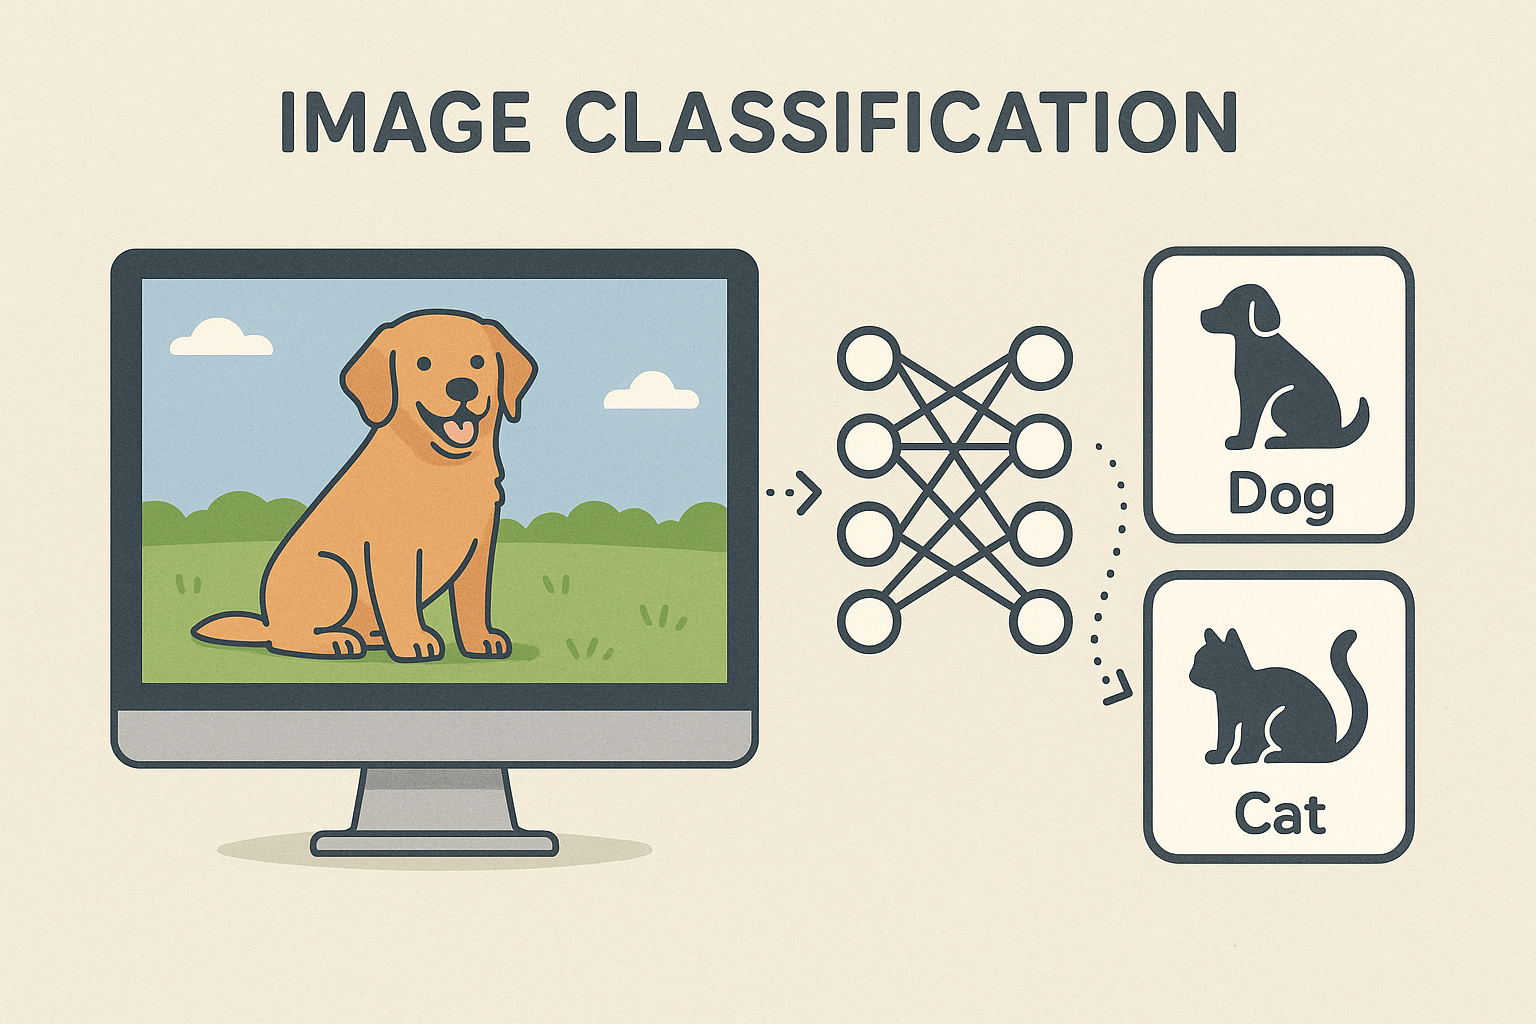
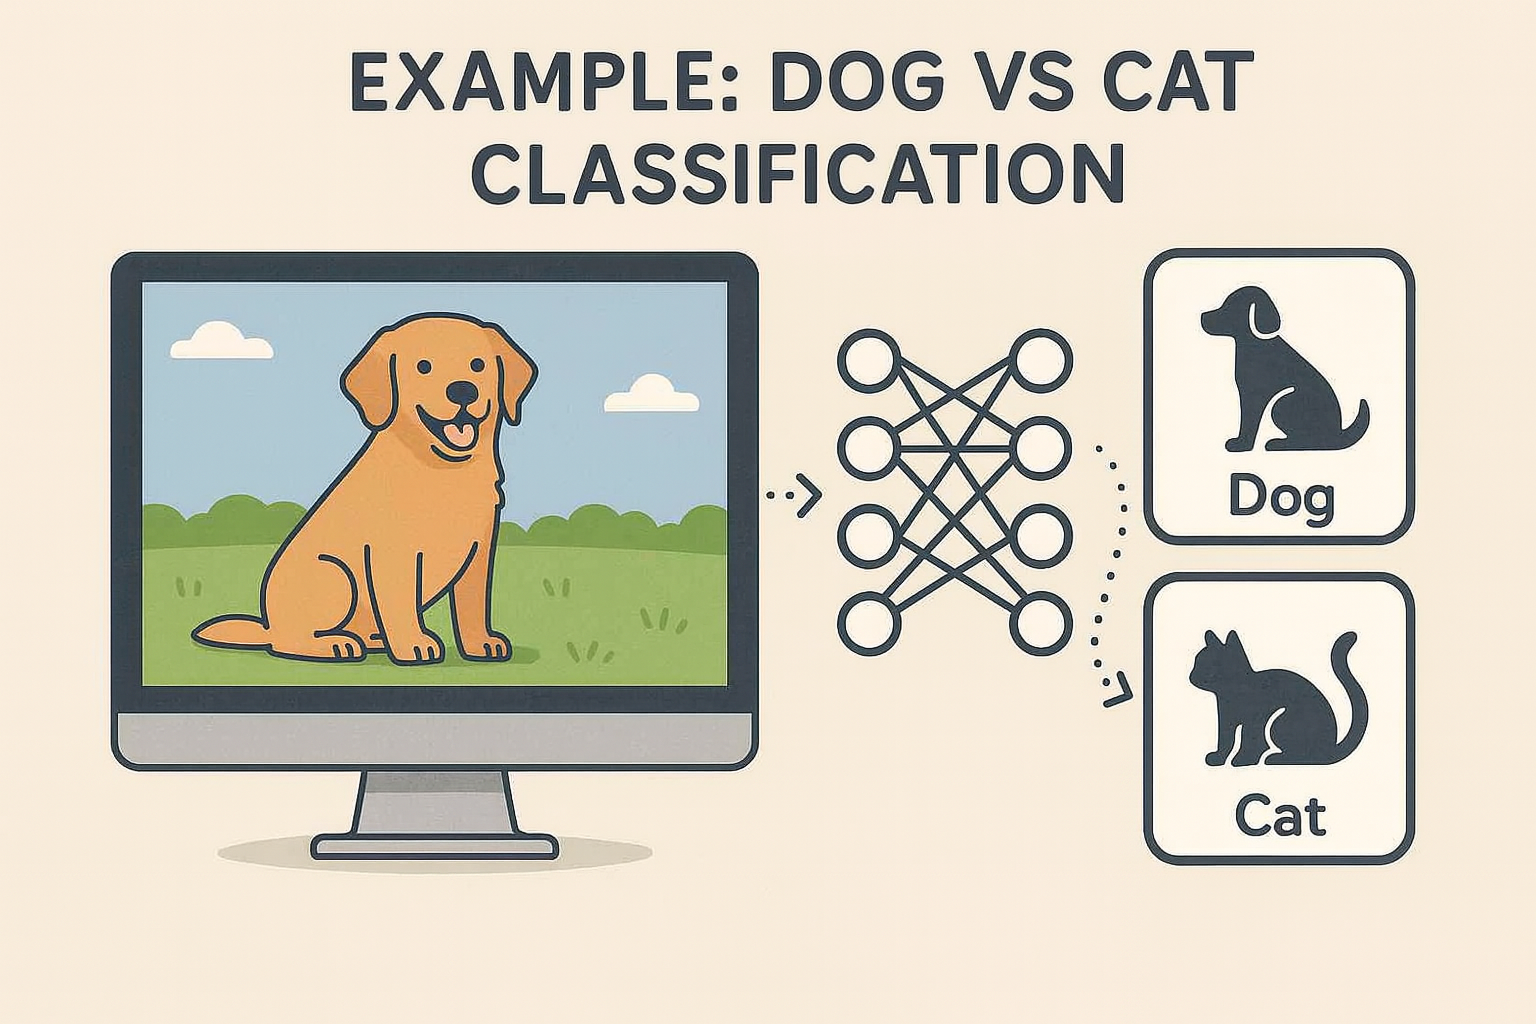
update

diff --git a/src/components/projects/ManualCreationModal.jsx b/src/components/projects/ManualCreationModal.jsx
@@ -5,8 +5,8 @@ import MarkdownRenderer from 'src/components/MarkdownRenderer.jsx'
 
 // import { TASK_TYPES } from 'src/constants/types'
 import image_classification from 'src/assets/images/image_classification.png'
-import text_classification from 'src/assets/images/text_classification.jpg'
-import multilabel_text_classification from 'src/assets/images/multilabel_text_classification.jpg'
+import text_classification from 'src/assets/images/text_classification.png'
+import multilabel_text_classification from 'src/assets/images/multilabel_text_classification.png'
 import tabular_classification from 'src/assets/images/tabular_classification.png'
 import tabular_regression from 'src/assets/images/tabular_regression.png'
 import multilabel_tabular_classification from 'src/assets/images/multilabel_tabular_classification.png'
@@ -62,12 +62,23 @@ const taskCards = [
 		description:
 			'Perfect for organizing photo collections, content moderation, and product categorization. Upload images and let AI automatically sort them by content.',
 		icon: '📸',
-		example: {
-			input: 'Photos of different fruits: apples, oranges, bananas',
-			output: 'Automatically sorted into fruit categories with confidence scores',
-		},
 		example_explain:
 			'Classifies an input image into one of several categories.',
+		explain: `📌 **This example shows how Image Classification works**.
+
+In this example:
+
+The input is a photo of a pet.
+The system must decide which **category** this photo belongs to.
+
+🎯 Possible categories:
+
+**Dog** → the image shows a dog
+
+**Cat** → the image shows a cat
+
+💡 In short:
+Image classification puts each picture into **one clear group** — in this case, either **Dog** or **Cat**.`,
 
 		image: image_classification,
 		difficulty: 'Beginner',
@@ -81,11 +92,23 @@ const taskCards = [
 		description:
 			'Analyze customer reviews, emails, or documents to understand sentiment and automatically categorize content for better organization.',
 		icon: '📝',
-		example: {
-			input: 'Customer review: "Amazing product, fast delivery!"',
-			output: 'Category: Positive Feedback, Sentiment: 95% positive',
-		},
 		example_explain: 'Predicts sentiment or topic for the given text.',
+		explain: `📌 **This example shows how Text Classification works.**
+
+In this example:
+
+The input is a short review: “Great product, I am very satisfied.”
+
+The system must decide which **category** this review belongs to.
+
+🎯 Possible categories:
+
+**Positive** → the customer is happy
+
+**Negative** → the customer is unhappy
+
+💡 In short:
+Text classification puts each text into **one clear group** — in this case, either **Positive** or **Negative**.`,
 
 		image: text_classification,
 		difficulty: 'Beginner',
@@ -99,10 +122,24 @@ const taskCards = [
 		description:
 			'When text needs multiple tags - like marking an email as both "urgent" and "customer-support" for better organization and routing.',
 		icon: '🏷',
-		example: {
-			input: 'Email: "Urgent: Account access issue for premium user"',
-			output: 'Labels: Urgent, Technical Support, Premium Customer',
-		},
+		explain: `📌 **This example shows how Multilabel Text Classification works.**
+
+In this example:
+
+Each text description represents a short summary of a movie.
+
+The arrows point to the genres that match that movie.
+
+🎬 For example:
+
+Description #1: “A superhero fights to save the world from a deadly threat.” → has 2 genres: **Action, Sci-Fi**
+
+Description #2: “A heartwarming tale of friendship and romance.” → has 3 genres: **Romance, Comedy, Drama**
+
+✅ This is different from single-label classification, where each movie could only belong to one genre (e.g., just “Action” or just “Comedy”). Here, we allow **multiple genres** for a movie description.
+
+💡 In short:
+This example shows that one movie description can belong to **several categories** at once — and that’s exactly what multilabel classification does.`,
 
 		image: multilabel_text_classification,
 		difficulty: 'Intermediate',
@@ -117,6 +154,22 @@ const taskCards = [
 			'Perfect for business analytics! Upload spreadsheet data and automatically categorize customers, transactions, or any structured data.',
 		icon: '📊',
 		example_explain: 'Predicts a class for each row in a structured table.',
+		explain: `📌 **This example shows how Tabular Classification can classify each customer based on their information**.
+
+In this example:
+
+The input is a table of customer information, such as **Age, Salary, and Balance**.
+
+The system uses these values to decide the outcome: whether the customer will **Churn** (leave) or **No Churn** (stay).
+
+🎯 For example:
+
+A customer with Age 25, Salary 50K, Balance 20K → **Churn**
+
+A customer with Age 45, Salary 80K, Balance 40K → **No Churn**
+
+💡 In short:
+Tabular classification helps businesses predict outcomes from structured data and it predicts a **single category for each row** — in this case, whether a customer will **churn** or **no churn**.`,
 		image: tabular_classification,
 		difficulty: 'Beginner',
 		timeToTrain: '5-20 minutes',
@@ -128,7 +181,7 @@ const taskCards = [
 		description:
 			'Forecast future values like house prices, sales numbers, or performance scores using your historical data patterns.',
 		icon: '📈',
-		example_explain: `📌 **This example shows how a system can predict house prices based on simple features.**
+		example_explain: `📌 **This example shows how Tabular Regression can predict house prices based on simple features.**
 
 In this table:
 - Each row represents one house.
@@ -143,7 +196,7 @@ In this table:
 
 💡 In short:  
 This is like a smart calculator that looks at the house’s details and gives you an estimated price — not just guessing randomly, but using real patterns from past data.`,
-		explain: `📌 **This example shows how a system can predict house prices based on simple features.**\n\nIn this table:\n- Each row represents one house.\n- The first 3 columns (Square Footage, Bedrooms, Location) are the **input information** — things we already know about the house.\n- The last column (“Predicted Price”) is the **output** — what the system calculates or guesses based on those inputs.\n\n🏡 For example:\n- House #1: 80 sq ft, 2 bedrooms — Predicted price: **$1.2M**\n- House #2: 120 sq ft, 3 bedrooms — Predicted price: **$1.8M**\n- House #3: 100 sq ft, 3 bedrooms  — Predicted price: **$3.0M**\n- House #4: 150 sq ft, 4 bedrooms  — Predicted price: **$4.5M**\n\n💡 In short:\nThis is like a smart calculator that looks at the house’s details and gives you an estimated price — not just guessing randomly, but using real patterns from past data.`,
+		explain: `📌 **This example shows how Tabular Regression can predict house prices based on simple features.**\n\nIn this table:\n- Each row represents one house.\n- The first 3 columns (Square Footage, Bedrooms, Location) are the **input information** — things we already know about the house.\n- The last column (“Predicted Price”) is the **output** — what the system calculates or guesses based on those inputs.\n\n🏡 For example:\n- House #1: 80 sq ft, 2 bedrooms — Predicted price: **$1.2M**\n- House #2: 120 sq ft, 3 bedrooms — Predicted price: **$1.8M**\n- House #3: 100 sq ft, 3 bedrooms  — Predicted price: **$3.0M**\n- House #4: 150 sq ft, 4 bedrooms  — Predicted price: **$4.5M**\n\n💡 In short:\nThis is like a smart calculator that looks at the house’s details and gives you an estimated price — not just guessing randomly, but using real patterns from past data.`,
 		image: tabular_regression,
 		difficulty: 'Intermediate',
 		timeToTrain: '10-30 minutes',
@@ -171,6 +224,20 @@ This is like a smart calculator that looks at the house’s details and gives yo
 			'The most comprehensive approach! Analyze both visual and textual content together for social media, e-commerce, or content platforms.',
 		icon: '🎯',
 		example_explain: 'Combines image and text signals for classification.',
+		explain: `📌 **This example shows how Multimodal Classification classify products based on several types of input**.
+
+In this example:
+
+The input can be **text, an image, audio, or any combination of these** describing a product.
+The system must decide which **category** this product belongs to.
+
+🎯 Possible categories:
+
+**Electronics** → the product is an electronic device
+**Clothing** → the product is a piece of clothing
+
+💡 In short:
+Multimodal classification considers **one or more** types of input together to put each item into **one clear group** — in this case, either Electronics or Clothing.`,
 		image: multimodal_classification,
 		difficulty: 'Advanced',
 		timeToTrain: '25-45 minutes',
@@ -412,6 +479,8 @@ const ManualCreationModal = ({
 												position: 'relative',
 												minHeight: '120px',
 												overflow: 'hidden',
+												display: 'flex',
+    											alignItems: 'center'
 											}}
 										>
 											<div
@@ -445,33 +514,6 @@ const ManualCreationModal = ({
 													>
 														{task.title}
 													</Title>
-													<div
-														style={{
-															display: 'flex',
-															gap: '8px',
-															flexWrap: 'wrap',
-														}}
-													>
-														<Tag
-															style={{
-																borderRadius:
-																	'12px',
-																fontSize:
-																	'10px',
-																padding:
-																	'2px 8px',
-																background:
-																	'var(--tag-gradient)',
-																border: '1px solid var(--tag-border)',
-																color: 'var(--tag-color)',
-																fontFamily:
-																	'Poppins, sans-serif',
-																fontWeight: 500,
-															}}
-														>
-															{task.difficulty}
-														</Tag>
-													</div>
 												</div>
 
 												{isTaskSelected && (

diff --git a/src/pages/project/build/info.jsx b/src/pages/project/build/info.jsx
@@ -9,6 +9,7 @@ import BackgroundShapes from 'src/components/landing/BackgroundShapes'
 import { useNavigate } from 'react-router-dom'
 import { PATHS } from 'src/constants/paths'
 import { getExperimentConfig } from 'src/api/experiment_config'
+import { TASK_TYPES } from 'src/constants/types'
 import {
 	Button,
 	Card,
@@ -565,16 +566,17 @@ const ProjectInfo = () => {
 								{/* Nút Back cố định bên trái */}
 								<Button
 									icon={<LeftOutlined />}
-									className="absolute left-0 top-1/2 -translate-y-1/2 bg-sky-500 hover:bg-sky-600 text-white border border-gray-400"
+									className="absolute left-0 top-1/2 -translate-y-1/2 !bg-sky-500 !text-white border border-gray-400 transition-transform duration-200 ease-in-out hover:scale-105"
 									onClick={() => navigate(PATHS.PROJECTS)}
 									shape="round"
 									size="large"
+									style={{borderRadius: '8px'}}
 								>
 									Home
 								</Button>
 
 								{/* Card căn giữa */}
-								<div className="max-w-3xl mx-auto">
+								<div className="max-w-4xl mx-auto">
 									<div
 										className="p-4 rounded-2xl border-[var(--border)] border-white/10 
         bg-gradient-to-br from-white/5 to-white/10 backdrop-blur-xl shadow-2xl"
@@ -589,8 +591,7 @@ const ProjectInfo = () => {
 											>
 												Task:{' '}
 												<span className="opacity-80">
-													{projectInfo?.task_type ||
-														'N/A'}
+													{TASK_TYPES[projectInfo?.task_type]?.type || 'N/A'}
 												</span>
 											</div>
 											<div
@@ -893,7 +894,7 @@ const ProjectInfo = () => {
 															<CloudUploadOutlined />
 														}
 														size="large"
-														className="absolute left-0 top-1/2 -translate-y-1/2 bg-sky-500 hover:bg-sky-600 text-white border border-gray-400 mb-10"
+														className="absolute left-0 top-1/2 -translate-y-1/2 !bg-sky-500 !text-white border border-gray-400 mb-10 transition-transform duration-200 ease-in-out hover:scale-105"
 													>
 														{uploading
 															? isWaitingForDeployment

diff --git a/src/components/projects/TaskFilter.jsx b/src/components/projects/TaskFilter.jsx
@@ -96,35 +96,8 @@ const TaskFilter = ({
 							compact
 						/>
 					</Col>
-					{/* Sort */}
-					<Col xs={12} md={7} lg={6}>
-						<div
-							style={{
-								display: 'flex',
-								alignItems: 'center',
-								gap: 8,
-							}}
-						>
-							<span
-								className="text-sm font-poppins font-medium"
-								style={{
-									color: 'var(--title-project)',
-									whiteSpace: 'nowrap',
-									textShadow: '0 1px 2px rgba(0,0,0,0.3)',
-								}}
-							>
-								Sort by:
-							</span>
-							<div style={{ flex: 1 }}>
-								<SortDropdown
-									selectedSort={selectedSort}
-									onSortChange={onSortChange}
-								/>
-							</div>
-						</div>
-					</Col>
 					{/* Task Type Filter */}
-					<Col xs={12} md={7} lg={6}>
+					<Col xs={12} md={7} lg={7}>
 						<div
 							style={{
 								display: 'flex',
@@ -168,6 +141,33 @@ const TaskFilter = ({
 									}}
 									popupClassName="theme-select-dropdown"
 									style={{ height: 40 }}
+								/>
+							</div>
+						</div>
+					</Col>
+					{/* Sort */}
+					<Col xs={12} md={7} lg={5}>
+						<div
+							style={{
+								display: 'flex',
+								alignItems: 'center',
+								gap: 8,
+							}}
+						>
+							<span
+								className="text-sm font-poppins font-medium"
+								style={{
+									color: 'var(--title-project)',
+									whiteSpace: 'nowrap',
+									textShadow: '0 1px 2px rgba(0,0,0,0.3)',
+								}}
+							>
+								Sort by:
+							</span>
+							<div style={{ flex: 1 }}>
+								<SortDropdown
+									selectedSort={selectedSort}
+									onSortChange={onSortChange}
 								/>
 							</div>
 						</div>

diff --git a/src/pages/projects/card.jsx b/src/pages/projects/card.jsx
@@ -21,8 +21,8 @@ import { deleteProject } from 'src/api/project'
 // removed Typography imports (not used)
 
 import image_classification from 'src/assets/images/image_classification.png'
-import text_classification from 'src/assets/images/text_classification.jpg'
-import multilabel_text_classification from 'src/assets/images/multilabel_text_classification.jpg'
+import text_classification from 'src/assets/images/text_classification.png'
+import multilabel_text_classification from 'src/assets/images/multilabel_text_classification.png'
 import tabular_classification from 'src/assets/images/tabular_classification.png'
 import tabular_regression from 'src/assets/images/tabular_regression.png'
 import multilabel_tabular_classification from 'src/assets/images/multilabel_tabular_classification.png'

diff --git a/src/constants/trainingTasks.js b/src/constants/trainingTasks.js
@@ -1,10 +1,9 @@
 export const TrainingTask = {
     IMAGE_CLASSIFICATION: "IMAGE_CLASSIFICATION",
     TEXT_CLASSIFICATION: "TEXT_CLASSIFICATION",
+    MULTILABEL_TEXT_CLASSIFICATION: "MULTILABEL_TEXT_CLASSIFICATION",
     TABULAR_CLASSIFICATION: "TABULAR_CLASSIFICATION",
+    TABULAR_REGRESSION: "TABULAR_REGRESSION",
     MULTILABEL_TABULAR_CLASSIFICATION: "MULTILABEL_TABULAR_CLASSIFICATION",
     MULTIMODAL_CLASSIFICATION: "MULTIMODAL_CLASSIFICATION",
-    TABULAR_REGRESSION: "TABULAR_REGRESSION",
-    SEMANTIC_SEGMENTATION: "SEMANTIC_SEGMENTATION",
-    TIME_SERIES: "TIME_SERIES"
 }
